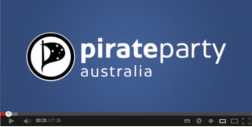
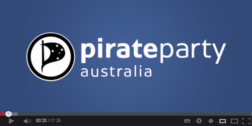
tweaking blocks

diff --git a/static/scss/desktop.css b/static/scss/desktop.css
@@ -583,7 +583,7 @@ input:-moz-placeholder {
   max-width: 220px !important; }
 
 #banner .lower .t2 {
-  background: url(../img/banner/ppautv.png) no-repeat;
+  background: #324a77 url(../img/banner/ppautv.png) no-repeat;
   background-position: 50% 50%; }
 
 #banner .lower .t2 p {

diff --git a/static/scss/style.scss b/static/scss/style.scss
@@ -501,7 +501,7 @@ input:-moz-placeholder {
 }
 
 #banner .lower .t2 {
-	background: url(../img/banner/ppautv.png) no-repeat;
+	background: #324A77 url(../img/banner/ppautv.png) no-repeat;
 	background-position: 50% 50%;
 }
 

diff --git a/homepage_banner.php b/homepage_banner.php
@@ -36,7 +36,7 @@
 		</div>
 		<div class="span4 t2 centre">
 			<p><strong>Webcasts!</strong></p>
-			<p class="read-more" style="margin-top: 55px;"><a href="<?php echo get_permalink(get_page_by_path('/category/webcasts/')) ?>" class="btn btn-primary">Listen or download</a></p>
+			<p class="read-more" style="margin-top: 60px;"><a href="<?php echo get_permalink(get_page_by_path('/category/webcasts/')) ?>" class="btn btn-primary">Listen or download</a></p>
 		</div>
 		<div class="span4 t1 last">
 			<p style="margin-top: 55px;"><strong>FOI laws are broken</strong></p>
